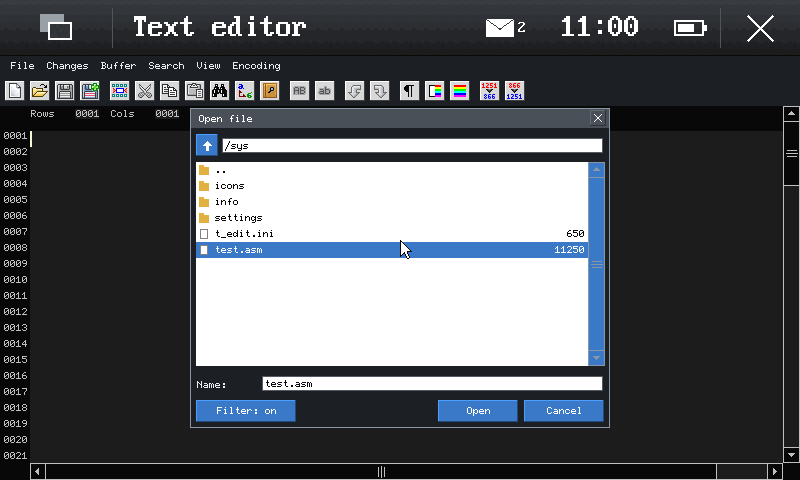
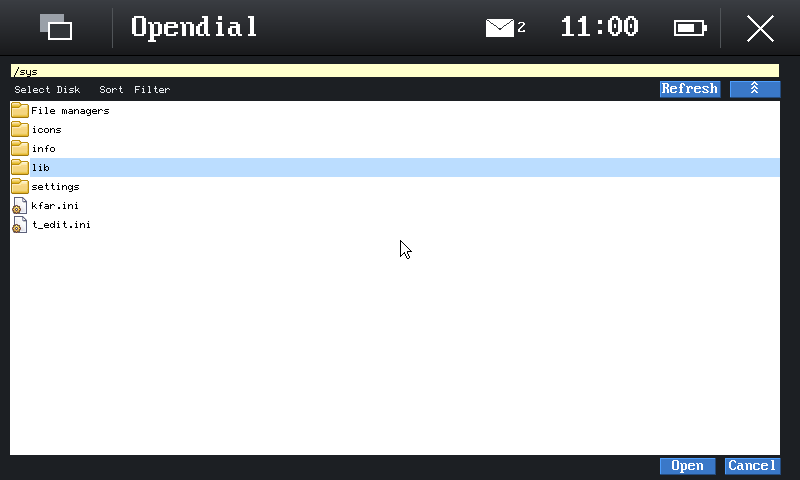
docs/apps.md: t_edit's dialogs as in KolibriOS (msgbox's threads, the keyword window's thread, opendial); screenshots
The t_edit section says how the message boxes, the keyword window and
the open and save dialogs run now (lib/msgbox, wnd_k_words, apps/opendial
with lib/proc_lib's shared memory), the window manager's dialogs in the
Hildon look, and what differs. docs/img: t_edit-open.png is opendial's
window, t_edit-msgbox.png the "Save changes?" box, t_edit-replace.png
with its message box's window. tests/apps/run.py: $KOLIBRI_APPS_OUT for
the output directory, as worktrees test at the same time.

diff --git a/tests/apps/run.py b/tests/apps/run.py
@@ -8,7 +8,8 @@ runs it through scripts/qemu-shot.py, types with keys.py's steps and
 checks the debug output (fstest's lines; the shell runs fstest's
 "expect" to look at the files it made) or what reaches a socket (the
 terminal on realview's UART1). Screenshots go to the output directory
-(/tmp/kolibri-apps-test), or with --img to the documentation's images.
+(/tmp/kolibri-apps-test, or $KOLIBRI_APPS_OUT: worktrees testing at the
+same time), or with --img to the documentation's images.
 """
 import os
 import shutil
@@ -19,7 +20,7 @@ import threading
 import time
 
 TOP = os.path.dirname(os.path.dirname(os.path.dirname(os.path.abspath(__file__))))
-OUT = '/tmp/kolibri-apps-test'
+OUT = os.environ.get('KOLIBRI_APPS_OUT', '/tmp/kolibri-apps-test')
 HERE = os.path.join(TOP, 'tests', 'apps')
 failed = []
 

diff --git a/docs/apps.md b/docs/apps.md
@@ -17,7 +17,7 @@ box_lib's widgets, libini, and in t_edit's case more (below).
 
 `tools/fetch-kolibrios.sh` fetches them, file by file, from KolibriOS's
 own host at commit `855f02d2` (main, 2026-10-28), each checked by its
-SHA-256 (`tools/kolibrios-files.txt`, 203 files, 2.3 MB), into
+SHA-256 (`tools/kolibrios-files.txt`, 208 files, 2.3 MB), into
 `third_party/kolibrios` (not kept in the repository, as lwIP isn't); the
 Makefile runs it when they are missing. Gitea's API serves the files of a
 commit (`/api/v1/repos/KolibriOS/kolibrios/raw/PATH?ref=COMMIT`). The
@@ -25,8 +25,9 @@ files come as they are there: CR LF, comments in CP866. Fetched besides
 the four programs: `console_coff`, `box_lib`, `libini`, `msgbox`,
 `proc_lib`, `opendial` (the libraries and what the translations follow),
 `KOSfuncs.inc`, `macros.inc`, `proc32.inc` and the like, ktcc's
-`conio.h`, `shell_api.h`, `sys/ksys.h`, `icons32.png`, the distributed
-`kfar.ini`, `sysfuncs.txt`, and `COPYING.TXT` (the GPL).
+`conio.h`, `shell_api.h`, `sys/ksys.h`, `icons32.png`, `icons18.png`,
+the distributed `kfar.ini` and `icon2ext.ini`, `sysfuncs.txt`, and
+`COPYING.TXT` (the GPL).
 
 ## C or assembler
 
@@ -238,8 +239,8 @@ box_lib's TED component (`t_edit.asm` there, 4 500 lines, now
 option box, scroll bars and tree list beside it (`lib/boxlib`, their
 structures field for field as box_lib.mac's, checked by
 `_Static_assert`). Its other libraries: `lib/msgbox` (KolibriOS's
-msgbox), `lib/proc_lib` (OpenDialog), `lib/kmenu` (the menu bar),
-libini.
+msgbox), `lib/proc_lib` (OpenDialog, which starts the program opendial),
+`lib/kmenu` (the menu bar), libini.
 
 Its look and keys are the original's: the menu bar, the toolbar with
 `te_icon.png`'s icons (and their grey versions), line numbers, the
@@ -252,19 +253,80 @@ Ctrl+Z/Y, finding, replacing all, going to a line, choosing the syntax,
 the keyword search, the menus, the open and save dialogs, saving, the
 "Save changes?" question.
 
+Its dialogs run as in KolibriOS, now that the kernel has threads, IPC
+and named shared memory (`docs/threads.md`):
+
+- The message boxes are msgbox's (`lib/msgbox`, `msgbox.asm`):
+  `mb_create(data, thread)` starts a thread (51.1) on the stack the
+  program gives (t_edit's `thread`) with a skinned window of its own in
+  the middle of the screen, and returns at once; t_edit goes on. The
+  button pressed lands in the data's first byte, and the box's thread
+  calls the button's function (`mb_setfunctions`: t_edit's
+  `On_SaveAndExit`, `On_NewFile`, `ted_but_open_file.no_msg`, ...) and
+  ends; t_edit's window is redrawn when the box's window goes, and
+  `On_Exit`'s `exit_code` ends t_edit there. Each box keeps its own
+  variables and stack (the caller's, or one of the library's when a
+  box's function shows another box, as t_edit's do when a file does not
+  open); the original's are the library's globals, which a second box
+  took over.
+- The keyword window (`wnd_k_words.inc`) is a thread of t_edit's again
+  (51.1 on the stack `thread_coords`, its TID in `wnd_k_words_run`,
+  ended by 18.18 when t_edit ends) with its own window, events and
+  keys. It takes its place from t_edit's window once at its start and
+  has a buffer of its own for function 9: the original fills t_edit's
+  `procinfo` with its own window's, which t_edit's thread reads at the
+  same time.
+- The open and save dialogs are the program opendial (`apps/opendial`,
+  translated from `programs/fs/opendial/opendial.asm`), on the ramdisk
+  where t_edit's `communication_area_default_path` looks for it:
+  `/sys/File managers/opendial`, beside its `icon2ext.ini` (the icons by
+  extension; the icons, libimg's `/sys/icons18.png` there, are built in).
+  `lib/proc_lib` translates `opendial.mac`: `OpenDialog_init` makes the
+  named shared memory `PPPPPPPP_open_dialog` (68.22, the caller's PID,
+  written as the original writes it), `OpenDialog_start` puts the type,
+  the window's place (in the middle of the caller's window), the folder,
+  the file's name and the filter there, starts opendial with the area's
+  name as its parameter (70.7) and polls the area's flag (68.1, 5, 11),
+  redrawing t_edit's window meanwhile; opendial answers with the path
+  and the name and the flag 1 (cancelled: 3), and its window's place
+  and size for the next time. opendial's window is the original's: the
+  path, the menus Select Disk (the disks: `/rd/1`, `/tmp0/1`), Sort and
+  Filter, Refresh and ^ (the folder above), the list with its icons, the
+  file's name when saving, Open/Save/Select and Cancel; its keys: the
+  cursor keys, Enter, Backspace, Esc, Ctrl+R, Alt+F1/F2/F3 for the
+  menus, Tab between the list and the name. box_lib's FileBrowser, menu
+  bar and PathShow, which `lib/boxlib` has not, are drawn by
+  `apps/opendial/fb.c` for what opendial asks of them (no marking with
+  Insert, no search by the first letter); `sort.obj`'s orders are a sort
+  of its own.
+- In the Hildon look the kernel maximises every window but plain ones;
+  a dialog is kept as it is (`kernel/wm.c`): a window first defined by a
+  thread whose process shows another window already keeps its size and
+  place, fitted into the work area, with the classic frame and title
+  (its height grows by the title's, which 48.4 gives as 0 there), and
+  stays above its program's windows when one of them is activated.
+  opendial, a program of its own, is maximised like any other: a file
+  chooser over the work area. The Hildon shell takes a dialog's window
+  for one more window of its program (under the program's name).
+
 What differs, and why:
 
-- OpenDialog in KolibriOS is a program of its own (`opendial`) talking
-  to the caller through shared memory; here `lib/proc_lib` shows it in
-  the caller's window, as a modal loop with opendial's list, path, file
-  name, filter and keys.
+- Fixed on the way in the dialogs: the filter is handed to opendial
+  whole (opendial.mac copies its last three bytes short), the filter's
+  extensions are compared whole (opendial.asm matches any suffix of
+  one), the disks' table holds longer paths than the original's 10
+  bytes (`/linux/home`), the name's box keeps to its 256 bytes, and
+  OpenDialog_start stops waiting when opendial is gone without an
+  answer (ended from outside). In the classic look opendial's window
+  has no title yet: opendial sets it with 71.1, which in KolibriOS also
+  turns the window's caption on (`syscall_window_settings`), and this
+  kernel's 71.1 does not.
 - kmenu has no source in KolibriOS's repository (only `kmenu.obj`):
   `lib/kmenu` is written anew with the API t_edit and `kolibri_kmenu.h`
   use; its drop-downs are drawn in the window (what they cover kept
   with function 36, put back with 7).
-- msgbox and the keyword window ran as threads; here they are modal in
-  the program's window. t_edit's messages to @notify ("not found", the
-  replacements made) are message boxes.
+- t_edit's messages to @notify ("not found", the replacements made)
+  are message boxes, as there is no @notify.
 - The syntax files are assembled at build time from their sources with
   FASMARM, unpacked (`apps/t_edit/fasm2arm.py` turns FASM's `dw`/`dd`
   into FASMARM's `dh`/`dw` first); a file packed by kpack is refused.
@@ -278,13 +340,16 @@ What differs, and why:
   the clipboard's text read to its size, tree_list's node functions).
 - Cyrillic shows in the kernel's cp437 glyphs (KolibriOS's system fonts
   are cp866; the console library has its own cp866 font).
-- In the Hildon look, closing a changed file from the panel leaves the
-  question on the screen; the close button again ends t_edit.
+- In the Hildon look, closing a changed file from the panel brings up
+  the question in msgbox's window, which the shell puts in front; the
+  panel's close button then closes that window (no answer, as its own
+  close button) and asks again the time after: "Discard" ends t_edit.
 
 ![t_edit](img/t_edit-classic.png)
 ![t_edit in the Hildon look, finding](img/t_edit-hildon.png)
 ![a menu](img/t_edit-menu.png)
-![the open dialog](img/t_edit-open.png)
+![the open dialog: opendial's window](img/t_edit-open.png)
+![a message box: msgbox's thread](img/t_edit-msgbox.png)
 ![replacing](img/t_edit-replace.png)
 
 ## Testing
@@ -295,7 +360,8 @@ runs it on both kernels and drives the programs in QEMU through
 `scripts/qemu-shot.py` (`tests/apps/keys.py` turns text into its key
 steps): the shell's commands, the terminal against a socket, kfar's
 and t_edit's operations (kfar copies, makes a folder and deletes; t_edit
-types, undoes, replaces, copies and pastes and saves through its dialog;
+types, undoes, replaces, copies and pastes and saves through opendial,
+answers "Save changes?" and opens the file again from the box's thread;
 fstest's `wait N expect PATH TEXT` in the autorun checks the files
 afterwards), with screenshots:
 
